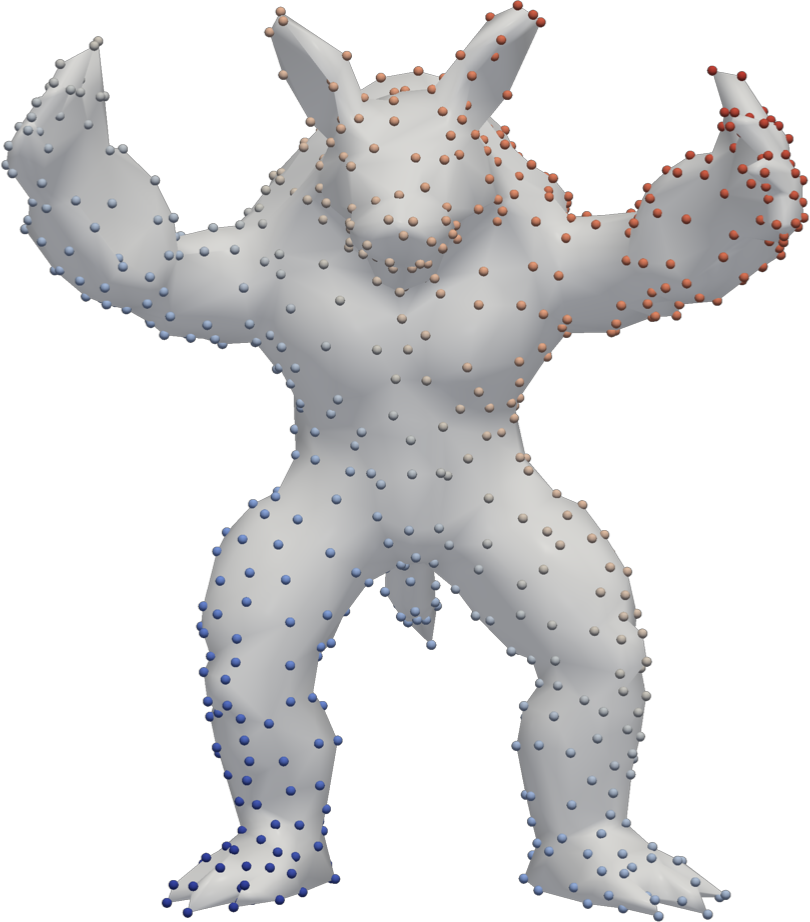
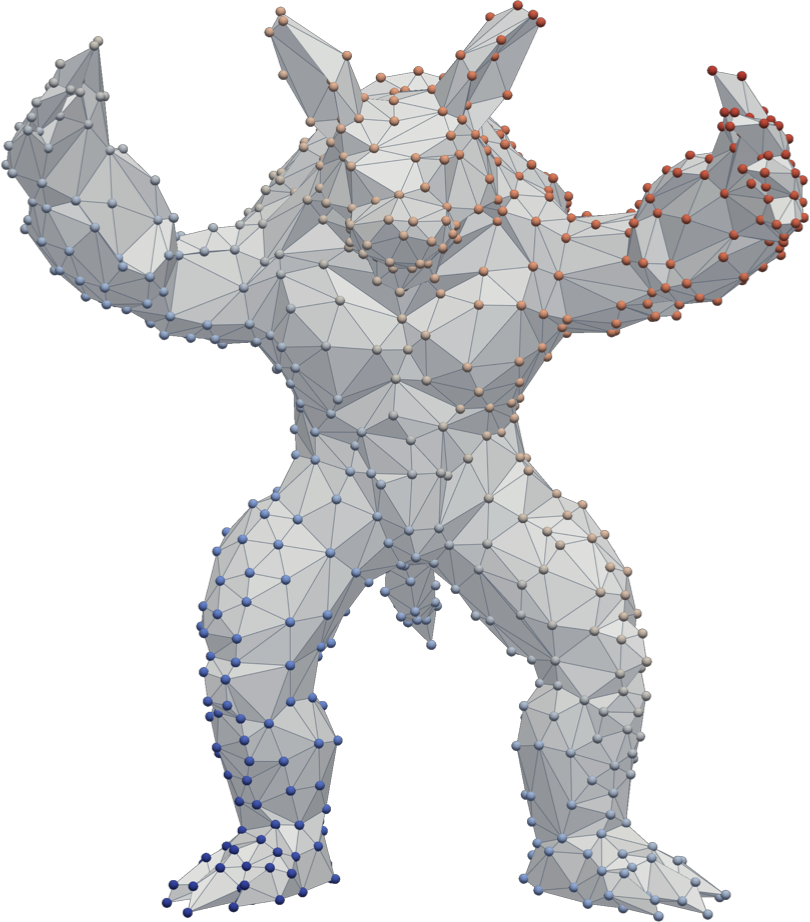
Slide 25: function reveal keeps the triangulation, colored balls on top

diff --git a/gen/gen_29_discretization.py b/gen/gen_29_discretization.py
@@ -60,12 +60,13 @@ def build():
                render_points_as_spheres=True)
     setup(p); save(p, "disc_mesh.png")
 
-    # 3) a scalar function = values at the vertices: colour ONLY the vertex
-    # points (the surface stays neutral grey), with large balls
+    # 3) a scalar function = values at the vertices: keep the triangulation +
+    # edges, add the colour only on the vertex balls on top
     p = pv.Plotter(off_screen=True, window_size=(1000, 1000))
     p.set_background([1, 1, 1, 0])
-    p.add_mesh(pv.PolyData(V, faces), color="#d6d8dc", smooth_shading=True,
-               ambient=0.45, diffuse=0.6, specular=0.05)
+    p.add_mesh(pv.PolyData(V, faces), color="#dfe3e8", smooth_shading=False,
+               show_edges=True, edge_color="#475569", line_width=1,
+               ambient=0.4, diffuse=0.66)
     pts = pv.PolyData(V); pts["f"] = f
     p.add_mesh(pts, scalars="f", cmap="coolwarm", clim=(-cap, cap),
                point_size=22, render_points_as_spheres=True, show_scalar_bar=False)
